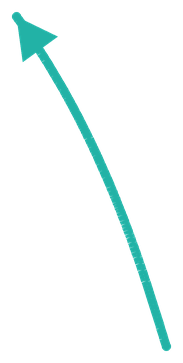
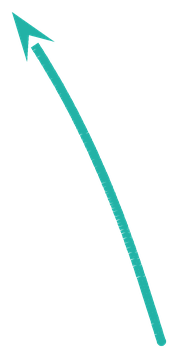
Fix arrowhead bulge and CSS specificity clobbering the arrow image
The tip previously had a round line-cap circle sitting under the
arrowhead triangle, reading as a bulge; the line now stops short of
the tip and only the tail gets a rounded cap. Also raises the
.chalk-arrow selector specificity (.photo-frame img.chalk-arrow) so
it isn't overridden by the generic .photo-frame img sizing rule.

diff --git a/style.css b/style.css
@@ -216,12 +216,14 @@ section:last-of-type {
   position: relative;
 }
 
-.chalk-arrow {
+.photo-frame img.chalk-arrow {
   position: absolute;
   left: 55%;
   top: 36%;
   width: 60px;
   height: auto;
+  object-fit: contain;
+  display: block;
   pointer-events: none;
   filter: drop-shadow(0 0 3px rgba(0, 0, 0, 0.55));
 }
